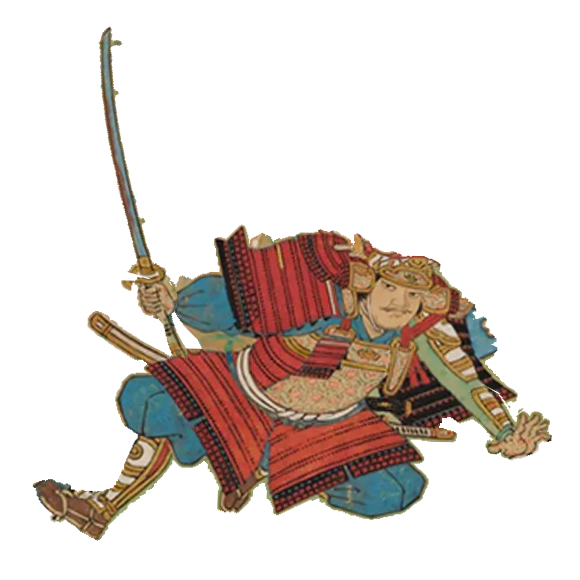
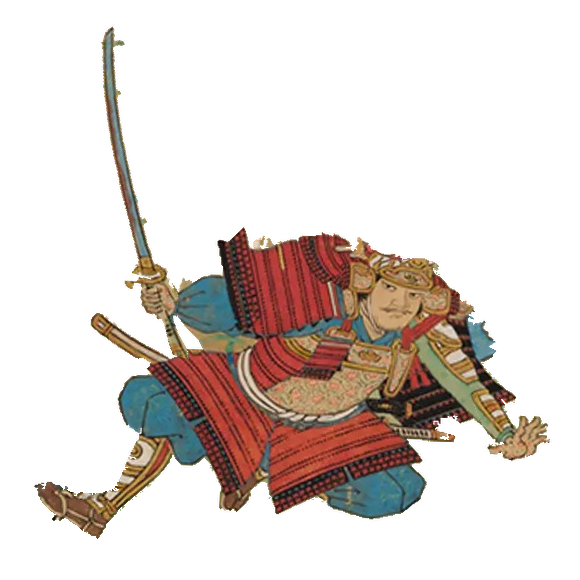
fix: アニメーションの品質調整 (鮮明さ・足元・縁・動きの流れ)
- 部位を動かす補間を線形から Lanczos に変え、動かしたフレームで筆線がぼける問題を直した
- 胴体の傾きは足元から離れるほど強くし、草鞋と足首は完全に固定した
- スプライトの縁を太らせるのをやめ、背景側で埋めた (淡い縁取りが出なくなった)
- 関節付近の継ぎ目を絵巻版にも残し、籠手の範囲を黒い鎧から外し、手の下の畳縁の欠片を除いた
- 動きを再調整: 04 は少し、05 で刀の動きが最大、06 で振り切りを保持
- Samurai の接地点を (97, 659) に更新

Claude-Session: https://claude.ai/code/session_01WefeYuLWziLRgKXWJhEEtu

Changed region(s): [[0.1552, 0.031, 0.9621, 0.9], [0.0621, 0.6517, 0.3724, 0.9], [0.1241, 0.9, 0.1862, 0.931]]

diff --git a/shuten-doji-animation-prototype/tools/make_assets.py b/shuten-doji-animation-prototype/tools/make_assets.py
@@ -114,6 +114,12 @@ def build_mask(rgb):
     m = cv2.morphologyEx(m, cv2.MORPH_CLOSE, K(2))
     m[poly_mask(rgb.shape, BEAM_EXCLUDE) > 0] = 0
     m[poly_mask(rgb.shape, STRIP_EXCLUDE) > 0] = 0
+    # 手の下にかかる畳縁の白い欠片 (彩度が低く明るい画素) を除く。手の肌は彩度があるので残る
+    whitish = (rgb.max(axis=2).astype(int) - rgb.min(axis=2).astype(int) < 28) & (rgb.astype(int).sum(axis=2) / 3 > 185)
+    hand_box = np.zeros(m.shape, bool)
+    hand_box[534:580, 503:558] = True
+    m[hand_box & whitish] = 0
+    m = cv2.morphologyEx(m, cv2.MORPH_OPEN, K(1))
     m = cv2.morphologyEx(m, cv2.MORPH_OPEN, K(1))
     # 内部の穴を埋める
     cs, _ = cv2.findContours(m, cv2.RETR_EXTERNAL, cv2.CHAIN_APPROX_NONE)
@@ -126,7 +132,7 @@ def peel_background(rgb, mask, thresh=22, max_iter=16):
     """マスクの縁に混ざった背景 (畳の緑・黄土色) を外側から 1px ずつ剥がす。
     周囲から補間した「人物が無い場合の地」との色差が小さい縁の画素だけを外す。
     人物の線・彩色は地との色差が大きいので残る。"""
-    est = build_clean_plate(rgb, mask, add_noise=False).astype(np.int16)
+    est = build_clean_plate(rgb, mask, add_noise=False, grow=1).astype(np.int16)
     diff = np.abs(rgb.astype(np.int16) - est).max(axis=2)
     cross = cv2.getStructuringElement(cv2.MORPH_CROSS, (3, 3))
     m = mask.copy()
@@ -147,10 +153,10 @@ def peel_background(rgb, mask, thresh=22, max_iter=16):
 
 
 # ---------------------------------------------------------------- 背景復元
-def build_clean_plate(rgb, mask, add_noise=True):
+def build_clean_plate(rgb, mask, add_noise=True, grow=2):
     """人物を除去した背景。周囲の色を Telea 法で回して埋める。
     パッチコピー系の手法は鬼の顔などを複製してしまうため使わない。"""
-    hole = cv2.dilate(mask, K(1))
+    hole = cv2.dilate(mask, K(grow))
     # 刀身のまわりは穴を広げ、元の刀の縁や影が背景に残らないようにする
     blade = mask.copy()
     blade[BLADE_ZONE_Y1:] = 0
@@ -193,7 +199,7 @@ def build_clean_plate(rgb, mask, add_noise=True):
 # 部位ポリゴン (元画像座標)
 HEAD_POLY = [(345, 372), (440, 372), (472, 415), (470, 440), (440, 452), (395, 455), (355, 440), (345, 410)]
 # 右腕の前腕 (籠手) と手
-FOREARM_POLY = [(467, 503), (480, 498), (495, 505), (506, 520), (514, 528), (524, 518), (538, 517), (552, 524),
+FOREARM_POLY = [(468, 504), (484, 501), (498, 509), (507, 519), (514, 528), (524, 518), (538, 517), (552, 524),
                 (556, 532), (554, 548), (548, 567), (526, 574), (504, 572), (488, 570), (484, 556), (492, 547),
                 (484, 538), (474, 522)]
 # 刀 = 刀身+鍔 (y<400, x<175) + 握っている手 + 手の下に出ている柄。握りを中心に一体で回す
@@ -205,6 +211,9 @@ SWORD_TAIL_POLY = [(159, 428), (170, 428), (174, 436), (181, 445), (194, 458), (
 CLOTH_SKIRT = [(190, 520), (430, 520), (430, 640), (190, 640)]
 CLOTH_SLEEVE = [(168, 395), (236, 395), (236, 458), (168, 458)]
 
+# 関節付近 (中心, 半径) は土台に元の画素を残し、回した部位の下で継ぎ目が透けないようにする
+KEEP_JOINTS = [(478, 500, 22), (172, 420, 14)]
+
 FOOT = (95.0, 655.0)     # 足元の基準点 (胴体の傾きの回転中心 = 全フレーム固定)
 ELBOW = (478.0, 500.0)   # 右前腕の回転中心
 GRIP = (152.0, 418.0)    # 刀の回転中心 (握り)
@@ -212,13 +221,13 @@ HEAD_C = (410.0, 410.0)
 
 # フレームごとのパラメータ: 傾き(度,時計回り+) / 裾の揺れ(px) / 右前腕(度) / 刀(度) / 表示時間(ms)
 FRAMES = [
-    dict(lean=0.0, sway=0.0, fore=0.0, sword=0.0, ms=120),    # 01 元の構え
-    dict(lean=0.35, sway=0.5, fore=-1.0, sword=-1.0, ms=100),  # 02 わずかに前傾
-    dict(lean=0.5, sway=1.0, fore=-3.0, sword=-2.0, ms=100),   # 03 上半身・腕を少し動かす
-    dict(lean=0.3, sway=1.5, fore=-2.0, sword=-6.0, ms=80),    # 04 刀を少し上げる
-    dict(lean=0.8, sway=2.0, fore=2.0, sword=7.0, ms=60),      # 05 刀を振る
-    dict(lean=1.0, sway=-1.5, fore=4.0, sword=15.0, ms=180),   # 06 振り切る
-    dict(lean=0.4, sway=-0.5, fore=1.5, sword=5.0, ms=120),    # 07 元の姿勢へ戻る
+    dict(lean=0.0, sway=0.0, fore=0.0, sword=0.0, ms=120),     # 01 元の構え
+    dict(lean=0.5, sway=0.6, fore=-1.2, sword=-1.0, ms=100),   # 02 ごくわずかに重心が動く
+    dict(lean=0.8, sway=1.2, fore=-3.5, sword=-2.5, ms=100),   # 03 上半身・腕の微細な変化
+    dict(lean=0.4, sway=1.6, fore=-2.5, sword=-4.5, ms=80),    # 04 刀が少し動く (振りかぶり)
+    dict(lean=1.1, sway=2.4, fore=2.5, sword=10.0, ms=60),     # 05 刀の動きが最も大きい
+    dict(lean=1.3, sway=-1.5, fore=4.5, sword=15.0, ms=180),   # 06 振り切った状態を少し保持
+    dict(lean=0.6, sway=-0.8, fore=1.5, sword=5.0, ms=120),    # 07 元へ戻る
     dict(lean=0.0, sway=0.0, fore=0.0, sword=0.0, ms=200),     # 08 元の構え
 ]
 
@@ -282,14 +291,19 @@ class Rig:
         self.w_sleeve = soft(CLOTH_SLEEVE, 4) * 0.6
         self.w_head = soft(HEAD_POLY, 8)
 
-    def render(self, lean, sway, fore, sword):
+    def render(self, lean, sway, fore, sword, interp=cv2.INTER_LANCZOS4):
         h, w = self.h, self.w
         F = canvas_pt(FOOT)
         M_lean = rot_about(lean, F)
         # --- 胴体・頭・衣服: 連続的な変形 (dst→src の逆写像)
-        inv = cv2.invertAffineTransform(M_lean)
-        qx = inv[0, 0] * self.xx + inv[0, 1] * self.yy + inv[0, 2]
-        qy = inv[1, 0] * self.xx + inv[1, 1] * self.yy + inv[1, 2]
+        # 足元 (草鞋・足首) は動かさない: 足元から 45px までは 0、160px 以上で全量になるよう重みをかける
+        dist = np.hypot(self.xx - F[0], self.yy - F[1])
+        t = np.clip((dist - 45.0) / 115.0, 0.0, 1.0)
+        w_lean = t * t * (3.0 - 2.0 * t)
+        disp_x = M_lean[0, 0] * self.xx + M_lean[0, 1] * self.yy + M_lean[0, 2] - self.xx
+        disp_y = M_lean[1, 0] * self.xx + M_lean[1, 1] * self.yy + M_lean[1, 2] - self.yy
+        qx = self.xx - w_lean * disp_x
+        qy = self.yy - w_lean * disp_y
         # 頭は胴体の動きの 70% を打ち消して「ほぼ固定」にする
         hc = np.array([*canvas_pt(HEAD_C), 1.0])
         d_head = -0.7 * (M_lean @ hc - hc[:2])
@@ -297,15 +311,23 @@ class Rig:
         dy = d_head[1] * self.w_head + 0.4 * sway * self.w_sleeve
         sx = (qx - dx).astype(np.float32)
         sy = (qy - dy).astype(np.float32)
-        base = cv2.remap(self.base, sx, sy, cv2.INTER_LINEAR, borderMode=cv2.BORDER_CONSTANT, borderValue=0)
+        base = cv2.remap(self.base, sx, sy, interp, borderMode=cv2.BORDER_CONSTANT, borderValue=0)
+        base = fix_premult(base)
         out = base
         # --- 切り離した部位 (剛体として回転)。胴体の傾きも重ねる
         for name, angle, pivot in (("fore", fore, ELBOW), ("sword", sword, GRIP)):
             M = compose(rot_about(angle, canvas_pt(pivot)), M_lean)
-            layer = cv2.warpAffine(self.P * self.parts[name][..., None], M, (w, h), flags=cv2.INTER_LINEAR,
+            layer = cv2.warpAffine(self.P * self.parts[name][..., None], M, (w, h), flags=interp,
                                    borderMode=cv2.BORDER_CONSTANT, borderValue=0)
+            layer = fix_premult(layer)
             out = layer + out * (1.0 - layer[..., 3:4])
         return out
+
+
+def fix_premult(p):
+    """Lanczos/bicubic の行き過ぎ (アルファが範囲外、色がアルファを超える) を抑える。"""
+    a = np.clip(p[..., 3:4], 0.0, 1.0)
+    return np.concatenate([np.clip(p[..., :3], 0.0, 255.0 * a), a], axis=-1)
 
 
 def premul_to_rgba8(p):
@@ -331,12 +353,7 @@ def main():
     mask = build_mask(rgb)
     Image.fromarray(mask * 255).save(OUT_MASK)
 
-    # スプライトは輪郭の AA 画素を含めるため 2px 太らせる
-    # ただし刀身のまわりは太らせない (元絵の明るい地の画素が付いて、動かすと淡い縁取りに見えるため)
-    grown = cv2.dilate(mask, K(2))
-    blade_zone = np.zeros_like(mask, bool)
-    blade_zone[:BLADE_ZONE_Y1, :175] = True
-    mask = np.where(blade_zone, mask, grown).astype(np.uint8)
+    # スプライトのマスクは太らせない (人物A と同じ)。縁の明るい画素は背景プレート側で埋める
     plate = build_clean_plate(rgb, mask)
     Image.fromarray(plate).save(OUT_BG)
 
@@ -347,7 +364,7 @@ def main():
     sprite_full = rgba[CY0:CY1, CX0:CX1]
     P = np.dstack([sprite_full[..., :3] * (sprite_full[..., 3:4] / 255.0), sprite_full[..., 3:4] / 255.0]).astype(np.float32)
     # samurai_01 用に元の切り抜きも保持
-    rig = Rig(P, mask[CY0:CY1, CX0:CX1])
+    rig = Rig(P, mask[CY0:CY1, CX0:CX1], keep_joints=KEEP_JOINTS)
 
     frames = []
     for i, prm in enumerate(FRAMES, 1):

diff --git a/shuten-doji-animation-prototype/tools/make_character_a_frames.py b/shuten-doji-animation-prototype/tools/make_character_a_frames.py
@@ -20,11 +20,7 @@ import make_assets as MA  # noqa: E402
 ROOT = MA.ROOT
 OUT = os.path.join(ROOT, "assets/characters/character_a/frames")
 
-# 関節付近 (中心, 半径) は土台に元の画素を残し、回した部位の下で継ぎ目が透けないようにする
-KEEP_JOINTS = [
-    (478, 500, 22),   # 右前腕の付け根 (肘)
-    (172, 420, 14),   # 刀を握る手と袖のつなぎ目
-]
+KEEP_JOINTS = MA.KEEP_JOINTS   # 関節付近は土台に元の画素を残す (絵巻版と共通)
 
 
 def main():

diff --git a/shuten-doji-animation-prototype/README.md b/shuten-doji-animation-prototype/README.md
@@ -51,7 +51,7 @@ python3 tools/make_character_a_frames.py   # 8 フレーム
 - **接地点:** 草鞋の底の中心で、キャンバス内の (90, 352) です。全フレームで動きません。
 - **`scenes/character_a.tscn`:** 静止画。`CharacterA.position` が足元で、`scale = 1.0` が標準サイズです。
 - **`scenes/character_a_anim.tscn`:** 8 フレームを `AnimatedSprite2D` で 12fps ループ再生します。足元の扱いは同じです。
-- **動き:** 下の「動かし方」と同じ部位分け・角度・表示時間です。頭は胴体の動きの 3 割、刀は -6° から +15°、足元は固定です。
+- **動き:** 下の「動かし方」と同じ部位分け・角度・表示時間です。頭は胴体の動きの 3 割、刀は -4.5° から +15°、足元は固定です。
 - 8 フレームの背景は透明です。刀が動いた跡や部位の継ぎ目が透けないよう、肘と握りの付近は元の画素を土台に残しています。
 
 Godot で `scale` を 0.8 / 1.0 / 1.2 にして描画すると、高さは約 205 / 256 / 308px で、足元は動きません。
@@ -64,13 +64,14 @@ Godot で `scale` を 0.8 / 1.0 / 1.2 にして描画すると、高さは約 20
 | 部位 | 動き |
 |---|---|
 | 頭 | 胴体の動きの 30% だけ (ほぼ固定) |
-| 胴体 | 足元を中心に最大 1° 傾く |
-| 刀・握る手 | 握りを中心に一体で -6° 〜 +15° 回す (最も大きく動く) |
-| 右腕の前腕と手 | 肘を中心に -3° 〜 +4° |
-| 裾・袖 | 最大 2px 揺れる |
+| 胴体 | 足元を軸に最大 1.3° 傾く (草鞋と足首は動かさない) |
+| 刀・握る手 | 握りを中心に一体で -4.5° 〜 +15° 回す (最も大きく動く) |
+| 右腕の前腕と手 | 肘を中心に -3.5° 〜 +4.5° |
+| 裾・袖 | 最大 2.4px 揺れる |
 | 足元 | 全フレームで固定 |
 
 表示時間は 120 / 100 / 100 / 80 / 60 / 180 / 120 / 200 ms です。
+部位を回す・ずらす補間は Lanczos で、筆線の鮮明さを保っています (表示倍率 0.625 で、静止の 8 割以上)。
 値は `tools/make_assets.py` の `FRAMES` にあります。
 
 ## 既知の制限
